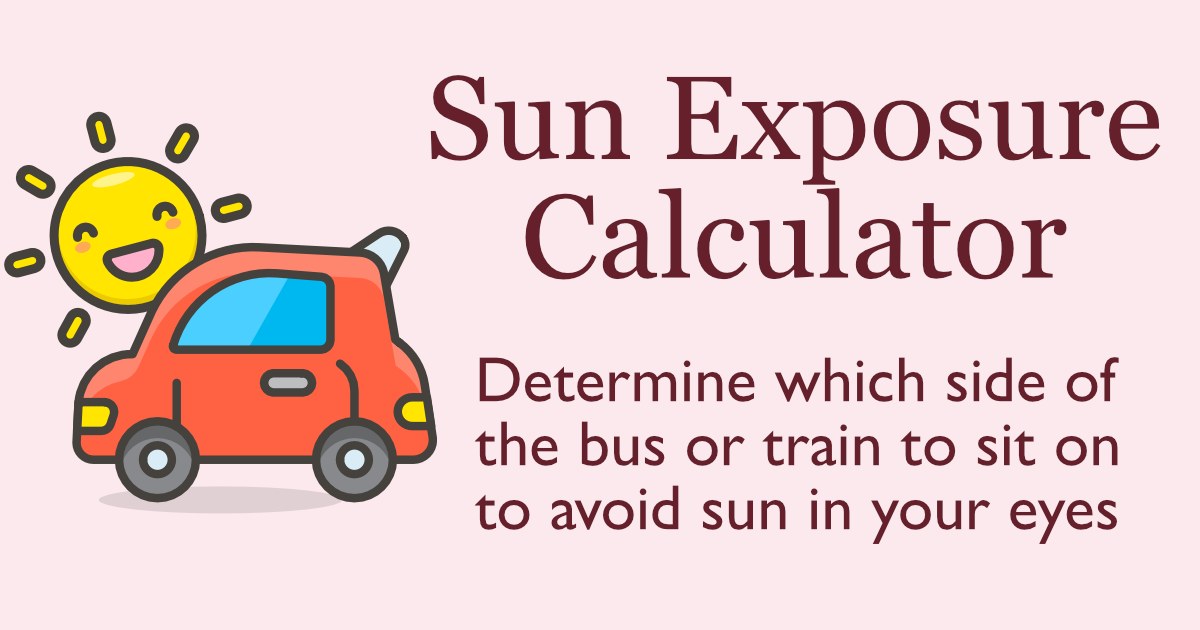
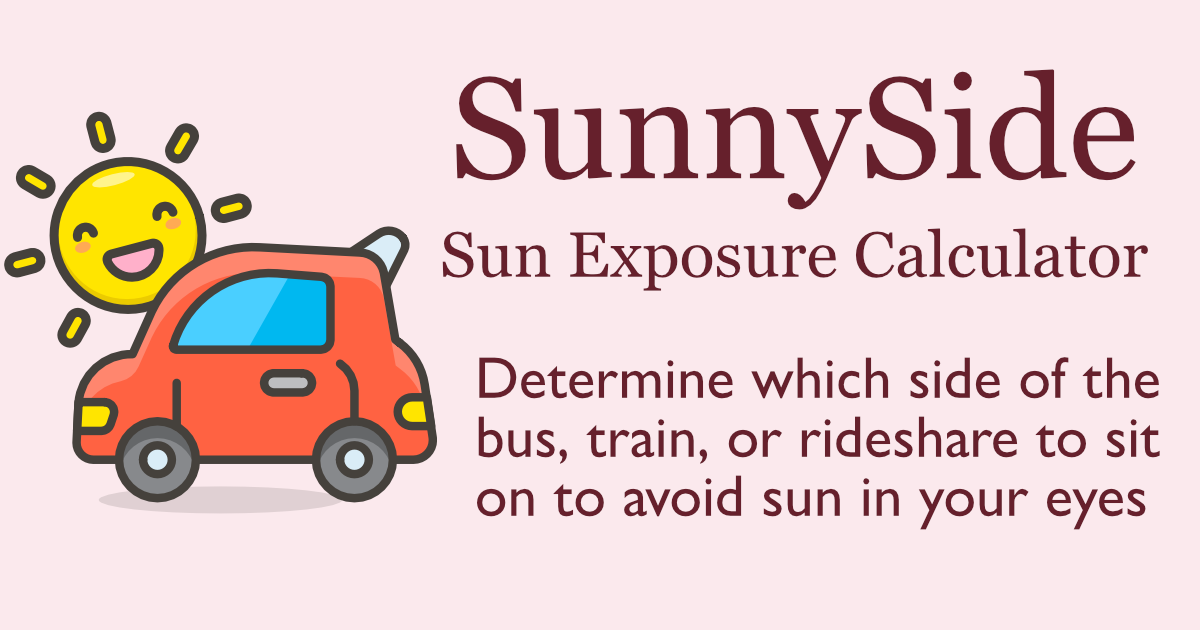
Renamed project to SunnySide

Changed region(s): [[0.3392, 0.0905, 0.9867, 0.4825], [0.4008, 0.573, 0.9867, 0.8746]]

diff --git a/src/routes/+page.svelte b/src/routes/+page.svelte
@@ -145,9 +145,9 @@
 </script>
 
 <svelte:head>
-	<title>Sun Exposure Calculator</title>
+	<title>SunnySide - Sun Exposure Calculator</title>
 	<meta name="description" content="Find out which side of the bus or train to sit on to avoid the sun." />
-	<meta property="og:title" content="Sun Exposure Calculator" />
+	<meta property="og:title" content="SunnySide - Sun Exposure Calculator" />
 	<meta property="og:description" content="Find out which side of the bus or train to sit on to avoid the sun." />
 	<meta property="og:type" content="website" />
 	<meta property="og:url" content={siteUrl} />
@@ -155,14 +155,14 @@
 	<meta property="og:image:width" content="1200" />
 	<meta property="og:image:height" content="630" />
 	<meta name="twitter:card" content="summary_large_image" />
-	<meta name="twitter:title" content="Sun Exposure Calculator" />
+	<meta name="twitter:title" content="SunnySide - Sun Exposure Calculator" />
 	<meta name="twitter:description" content="Find out which side of the bus or train to sit on to avoid the sun." />
 	<meta name="twitter:image" content={ogImage} />
 </svelte:head>
 
 <div class="flex flex-col gap-6">
 	<div>
-		<h1 class="h1">Sun Exposure Calculator 🌞 <span class="inline-block h-[1.4em] w-[1.4em] align-middle">{@html faviconSvg}</span></h1>
+		<h1 class="h1">SunnySide - Sun Exposure Calculator 🌞 <span class="inline-block h-[1.4em] w-[1.4em] align-middle">{@html faviconSvg}</span></h1>
 		<h4 class="h4">Calculate sun exposure on a trip, and see which side of the bus / train you should sit on to avoid the sun ➡🚇⬅</h4>
 	</div>
 

diff --git a/README.md b/README.md
@@ -1,6 +1,6 @@
 <img src="https://raw.githubusercontent.com/evnb/sunlight-exposure-skeleton/refs/heads/main/src/lib/assets/favicon.svg" width="200">
 
-# Sun Exposure Calculator
+# SunnySide - Sun Exposure Calculator
 
 Calculate sun exposure on a transit trip and find out which side of the bus or train to sit on to avoid the sun.
 
